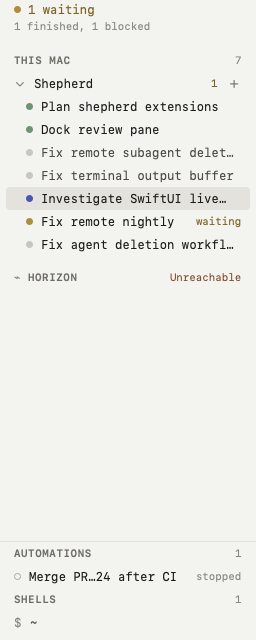
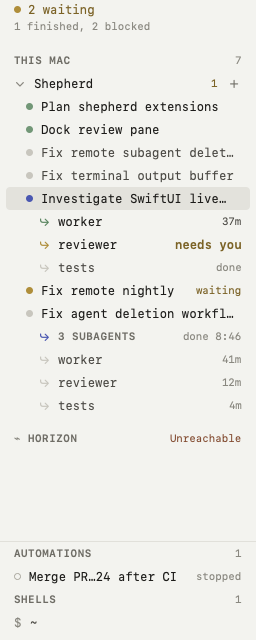
feat: fold finished subagent groups into one sidebar row

Changed region(s): [[0.0938, 0.3125, 0.9375, 0.6875]]

diff --git a/Sources/ShepherdApp/SidebarView.swift b/Sources/ShepherdApp/SidebarView.swift
@@ -179,7 +179,9 @@ struct SpaceSection: View {
             if !collapsed {
                 ForEach(agents) { agent in
                     let children = vm.children(of: agent.id)
-                    let showsSubagents = AgentRow.showsSubagents(for: agent.status, hasActiveChildren: children.contains { !$0.isTerminal || $0.needsAttention })
+                    let finished = nativeSubagentGroupIsTerminal(children)
+                    // A finished group has its own fold row; the agent row's chip and re-click fold are for live groups.
+                    let showsSubagents = !finished && AgentRow.showsSubagents(for: agent.status, hasActiveChildren: children.contains { !$0.isTerminal || $0.needsAttention })
                     let childrenHidden = vm.collapsedChildren.contains(agent.id)
                     AgentRow(
                         agent: agent,
@@ -247,13 +249,22 @@ struct SpaceSection: View {
                     // Clicking opens the run's inspector dashboard in a pane
                     // beside the agent (steer/stop at its prompt; closing the
                     // pane never touches the run).
-                    if showsSubagents, !childrenHidden {
+                    // A finished group folds into one "↳ 3 SUBAGENTS · done 11:09" row (board: completed
+                    // sidebar); clicking it toggles the child rows. Live groups keep the nested rows.
+                    let showsRows = finished ? vm.unfoldedSubagentGroups.contains(agent.id) : (showsSubagents && !childrenHidden)
+                    if finished {
+                        SubagentGroupRow(children: children, expanded: showsRows, depth: depth) {
+                            if showsRows { vm.unfoldedSubagentGroups.remove(agent.id) } else { vm.unfoldedSubagentGroups.insert(agent.id) }
+                        }
+                    }
+                    if showsRows {
                         ForEach(children) { child in
                             ChildRunRow(
                                 child: child,
                                 selected: (vm.inspectingAgentID == agent.id && vm.inspectedChild[agent.id] == child.id)
                                     || (vm.selectedAgentID == agent.id && vm.subagentInspector.runByAgent[agent.id] == child.runID),
-                                depth: depth
+                                depth: depth,
+                                inFinishedGroup: finished
                             ) {
                                 vm.openChildInspector(agentID: agent.id, child: child)
                             }
@@ -524,6 +535,9 @@ struct ChildRunRow: View {
     /// True while this child's inspector is what the workspace shows.
     var selected = false
     var depth: Int = 0
+    /// Under a finished group row the right slot is the run's duration ("41m"), as the completed
+    /// board draws it; in a live group a finished sibling still reads "done".
+    var inFinishedGroup = false
     let action: () -> Void
     @State private var hovering = false
 
@@ -540,8 +554,9 @@ struct ChildRunRow: View {
     /// Right slot: "needs you" / "done" / the failure state, or the live elapsed "37m".
     private var trailing: String {
         if child.needsAttention { return "needs you" }
-        if child.isTerminal { return child.state == "complete" ? "done" : child.state }
-        return nativeSubagentElapsed(child, now: Date()).map(nativeSubagentShortDuration) ?? ""
+        let elapsed = nativeSubagentElapsed(child, now: Date()).map(nativeSubagentShortDuration)
+        if child.isTerminal { return child.state == "complete" ? (inFinishedGroup ? elapsed ?? "done" : "done") : child.state }
+        return elapsed ?? ""
     }
 
     var body: some View {
@@ -583,6 +598,53 @@ struct ChildRunRow: View {
         .accessibilityAction { action() }
         .accessibilityElement(children: .ignore)
         .accessibilityLabel("\(child.role ?? child.label), subagent, \(child.needsAttention ? "needs you" : child.state)")
+    }
+}
+
+/// One row for a finished subagent group: section caps "↳ 3 SUBAGENTS" with the accent glyph,
+/// right "done 11:09" (or "1 failed" in danger). Clicking toggles the child rows.
+struct SubagentGroupRow: View {
+    let children: [ChildRun]
+    let expanded: Bool
+    var depth: Int = 0
+    let action: () -> Void
+    @State private var hovering = false
+
+    static func trailing(_ children: [ChildRun]) -> (text: String, failed: Bool) {
+        let failed = children.count { nativeSubagentState($0) == .failed }
+        if failed > 0 { return ("\(failed) failed", true) }
+        if let ended = children.compactMap(\.endedAt).max() { return ("done \(nativeClockText(ended, meridiem: false))", false) }
+        return ("done", false)
+    }
+
+    var body: some View {
+        let trailing = Self.trailing(children)
+        HStack(spacing: 8) {
+            NativeBranchGlyph(color: NativeTokens.accent, size: 12)
+                .overlay(alignment: .leading) {
+                    NativeTokens.border.frame(width: 1).padding(.vertical, -NativeMetrics.sidebarRowHeight / 2).offset(x: -8)
+                }
+            Text("\(children.count) SUBAGENT\(children.count == 1 ? "" : "S")")
+                .font(NativeFonts.sidebarSection).tracking(0.6).foregroundStyle(NativeTokens.textTertiary).lineLimit(1)
+            Spacer(minLength: 0)
+            Text(trailing.text).font(NativeFonts.sidebarMeta).monospacedDigit()
+                .foregroundStyle(trailing.failed ? NativeTokens.dangerText : NativeTokens.textMuted)
+        }
+        .clipped()
+        .padding(.leading, 8 + CGFloat(depth + 2) * NativeMetrics.sidebarIndent)
+        .padding(.trailing, 8)
+        .frame(height: NativeMetrics.sidebarRowHeight)
+        .frame(maxWidth: .infinity, alignment: .leading)
+        .background(hovering ? NativeTokens.bgHoverStrong : Color.clear, in: RoundedRectangle(cornerRadius: Radius.xs))
+        .padding(.horizontal, NativeMetrics.sidebarPadding)
+        .contentShape(Rectangle())
+        .onHover { hovering = $0 }
+        .onTapGesture(perform: action)
+        .accessibilityAddTraits(.isButton)
+        .accessibilityAction { action() }
+        .accessibilityElement(children: .ignore)
+        .accessibilityLabel("\(children.count) subagents, \(trailing.text)")
+        .accessibilityValue(expanded ? "Expanded" : "Collapsed")
     }
 }
 

diff --git a/Tests/ShepherdAppTests/NativePresentationTests.swift b/Tests/ShepherdAppTests/NativePresentationTests.swift
@@ -298,6 +298,17 @@ struct NativePresentationTests {
         #expect(nativeTurnTimeText(startedAt: start, endedAt: nil) == nativeClockText(start))
     }
 
+    @Test func sidebarGroupRowReadsDoneTimeOrFailures() {
+        let runs = Self.doneRuns
+        let utc = TimeZone(identifier: "UTC")!
+        let ended = runs.compactMap(\.endedAt).max()!
+        #expect(SubagentGroupRow.trailing(runs) == ("done \(nativeClockText(ended, meridiem: false))", false))
+        #expect(nativeClockText(ended, meridiem: false, timeZone: utc) == "2:46")
+        var failed = runs[0]; failed.state = "failed"
+        #expect(SubagentGroupRow.trailing([failed, runs[1]]) == ("1 failed", true))
+        #expect(SubagentGroupRow.trailing([ChildRun(runID: "x", label: "l", state: "complete")]) == ("done", false))
+    }
+
     @Test func siblingsStepInSpawnOrderWithinTheGroup() {
         let runs = Self.doneRuns
         let spawn = { (id: String) -> NativeThreadMessage in
@@ -1057,6 +1068,10 @@ struct NativePresentationTests {
             run.endedAt = run.endedAt.map { $0 + shift }
             return run
         })
+        // A finished group under another agent folds to "↳ 3 SUBAGENTS · done 11:09"; unfolded here
+        // so the shot shows the child rows with their durations (board: completed sidebar).
+        vm.applyAgentChildren(agents[6].id, Self.doneRuns)
+        vm.unfoldedSubagentGroups.insert(agents[6].id)
         // An unreachable second machine makes the tree show its THIS MAC / host structure.
         vm.remoteHosts.addHost(name: "Horizon", host: "127.0.0.1", port: 1, token: "x")
         let window = NSWindow(contentRect: NSRect(x: 0, y: 0, width: 256, height: 640),

diff --git a/Sources/ShepherdApp/ShepherdViewModel.swift b/Sources/ShepherdApp/ShepherdViewModel.swift
@@ -252,6 +252,11 @@ final class ShepherdViewModel {
     /// row toggles this); the row shows an `n sub` chip instead. Ephemeral,
     /// like all child-run display state.
     var collapsedChildren: Set<AgentID> = []
+    /// Agents whose finished subagent group is unfolded in the sidebar. A completed group
+    /// folds to one "↳ 3 SUBAGENTS" row by default; the choice persists per agent.
+    var unfoldedSubagentGroups: Set<AgentID> = [] {
+        didSet { sidebarDefaults.set(unfoldedSubagentGroups.map(\.rawValue).sorted(), forKey: "shepherd.unfoldedSubagentGroups") }
+    }
     @ObservationIgnored private var childSweepTimer: Timer?
     /// Focus is recorded per layout on every change (clicks, ⌥⌘←/→, splits),
     /// so returning to an agent restores the pane you were last working in.
@@ -370,6 +375,9 @@ final class ShepherdViewModel {
         // Restore persisted sidebar collapse state. Stale IDs are pruned on
         // the first server snapshot (`adopt`).
         let defaults = sidebarDefaults
+        if let raw = defaults.stringArray(forKey: "shepherd.unfoldedSubagentGroups") {
+            unfoldedSubagentGroups = Set(raw.map(AgentID.init(rawValue:)))
+        }
         if let raw = defaults.stringArray(forKey: "shepherd.collapsedSpaces") {
             collapsedSpaces = Set(raw.map(SpaceID.init(rawValue:)))
         }
